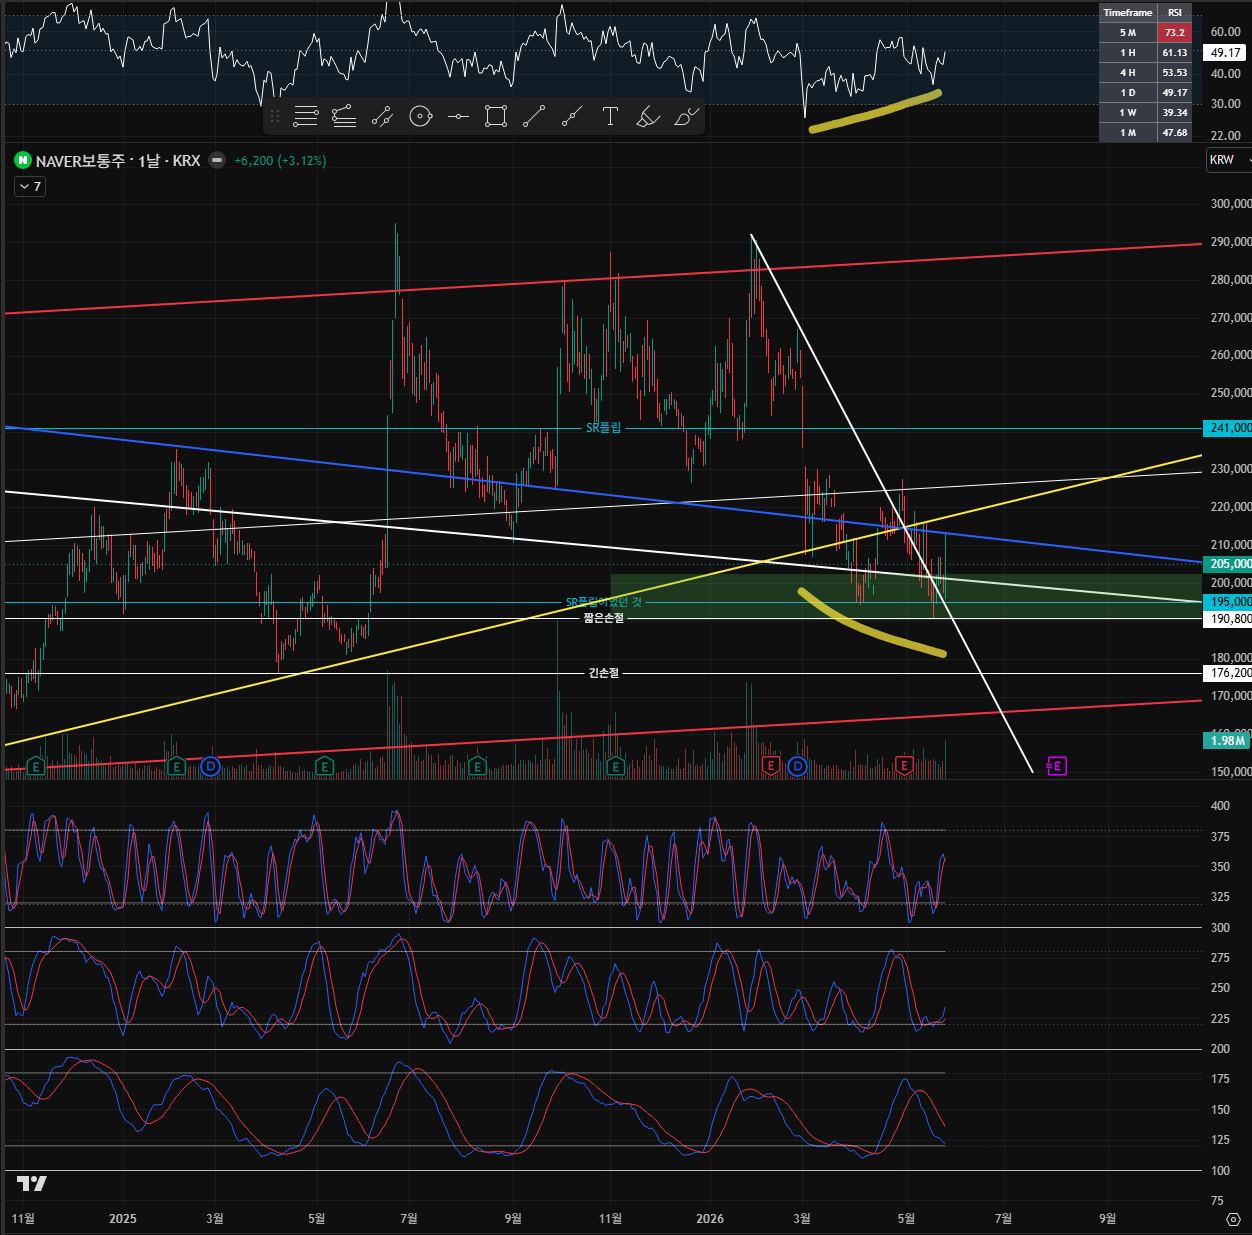
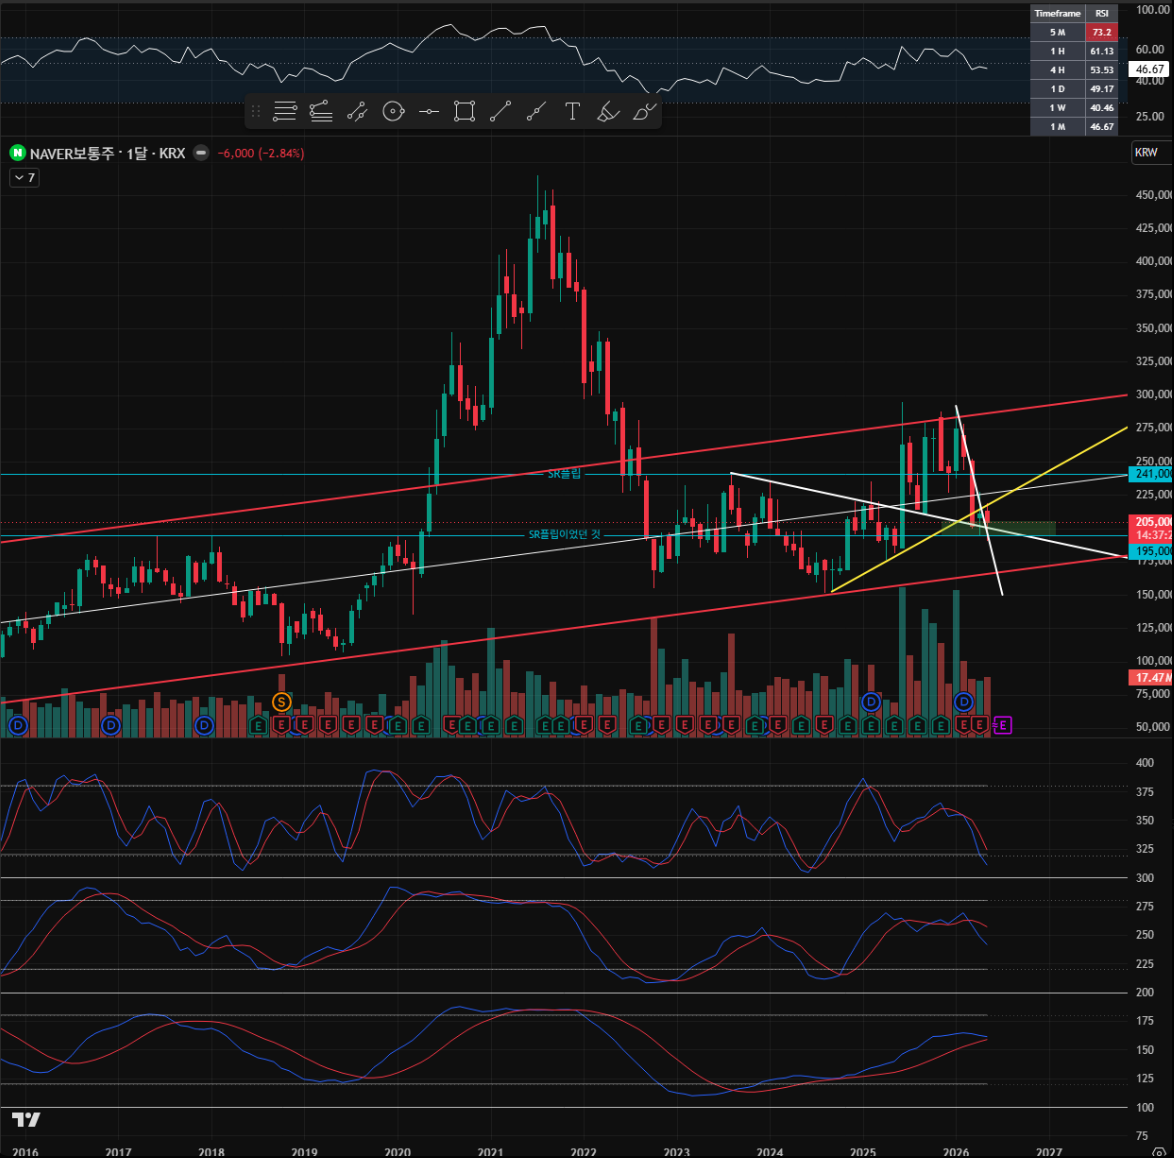
Add NAVER chart images to report

Changed region(s): [[0.0, 0.0, 1.0, 1.0], [0.0, 0.0, 0.8279, 0.1865], [0.0, 0.2487, 0.0307, 0.2798]]

diff --git a/gallery.html b/gallery.html
@@ -68,13 +68,63 @@
   <p class="summary">SQLite에 등록된 차트 이미지 기준으로 생성한 갤러리입니다.</p>
   <main class="grid">
     <article class="card">
+      <img src="assets/2026-05-28/naver_daily_ma_01.png" alt="naver daily chart">
+      <div class="meta">
+        <strong>naver</strong>
+        <span>daily</span>
+        <span>2026-05-29 01:05:30</span>
+        <span>캡처 저장</span>
+        <span>245.2 KB</span>
+      </div>
+    </article>
+    <article class="card">
+      <img src="assets/2026-05-28/naver_daily_divergence_01.png" alt="naver daily chart">
+      <div class="meta">
+        <strong>naver</strong>
+        <span>daily</span>
+        <span>2026-05-29 01:05:25</span>
+        <span>기존 이미지</span>
+        <span>349.8 KB</span>
+      </div>
+    </article>
+    <article class="card">
+      <img src="assets/2026-05-28/naver_weekly_fibonacci_01.png" alt="naver weekly chart">
+      <div class="meta">
+        <strong>naver</strong>
+        <span>weekly</span>
+        <span>2026-05-29 01:04:56</span>
+        <span>기존 이미지</span>
+        <span>319.0 KB</span>
+      </div>
+    </article>
+    <article class="card">
+      <img src="assets/2026-05-28/naver_weekly_neckline_01.png" alt="naver weekly chart">
+      <div class="meta">
+        <strong>naver</strong>
+        <span>weekly</span>
+        <span>2026-05-29 01:04:43</span>
+        <span>기존 이미지</span>
+        <span>333.7 KB</span>
+      </div>
+    </article>
+    <article class="card">
+      <img src="assets/2026-05-28/naver_weekly_sr_01.png" alt="naver weekly chart">
+      <div class="meta">
+        <strong>naver</strong>
+        <span>weekly</span>
+        <span>2026-05-29 01:04:28</span>
+        <span>기존 이미지</span>
+        <span>318.5 KB</span>
+      </div>
+    </article>
+    <article class="card">
       <img src="assets/2026-05-28/naver_monthly_01.png" alt="naver monthly chart">
       <div class="meta">
         <strong>naver</strong>
         <span>monthly</span>
-        <span>2026-05-29 01:00:53</span>
+        <span>2026-05-29 01:04:09</span>
         <span>캡처 저장</span>
-        <span>271.8 KB</span>
+        <span>268.7 KB</span>
       </div>
     </article>
     <article class="card">

diff --git a/2026-05-28/naver-review.html b/2026-05-28/naver-review.html
@@ -139,17 +139,8 @@
 <h2>Codex 최종 의견</h2>
 <p>네이버는 현재 &quot;매수 확정&quot;보다 &quot;반등 검증&quot;에 가까운 차트다. 달봉은 SR플립 실패와 단기 상승추세선 이탈 때문에 약하지만, 주봉과 일봉에서는 반등 후보 근거가 꽤 모여 있다. 핵심 가격대는 195,000~205,000원이다. 이 구간을 지키고 205,000원 위로 안착하면 사용자 관점은 힘을 얻는다. 반대로 195,000원과 짧은 손절선인 190,800원을 이탈하면, 지금 겹쳐 있는 피보나치/관통추세선/수평지지 근거가 동시에 약해진다.</p>
 <p>포지션 정보가 제공되지 않았으므로 액션은 선택하지 않는다. 현재 판단은 조건부 반등 후보이며, 확인 전에는 공격적 판단보다 195,000원 방어와 205,000원 위 안착을 먼저 봐야 한다.</p>
-<h2>차트 이미지</h2>
-<p><a class="image-link" href="../assets/2026-05-28/naver_monthly_01.png"><img src="../assets/2026-05-28/naver_monthly_01.png" alt="네이버 월봉 차트"></a></p>
-<p>주봉과 일봉 차트는 채팅 첨부로 분석에는 반영했지만, 아직 저장소에는 HTML에 연결할 이미지 파일이 없다. 차트까지 보이게 하려면 아래 이미지를 다시 캡처하거나 파일로 제공해 <code>records/assets/2026-05-28/</code> 아래에 저장한 뒤 HTML을 갱신해야 한다.</p>
-<ul>
-<li>주봉 SR플립 / 하단 수평지지 / 관통추세선 차트</li>
-<li>주봉 역헤드앤숄더 넥라인 리테스트 관점 차트</li>
-<li>주봉 피보나치 중첩 구간 차트</li>
-<li>일봉 RSI / 스토캐스틱 / 단기 하락추세선 차트</li>
-<li>일봉 5이평 확대 차트</li>
-</ul>
 <h2>월봉</h2>
+<p><a class="image-link" href="../assets/2026-05-28/naver_monthly_01.png"><img src="../assets/2026-05-28/naver_monthly_01.png" alt="네이버 월봉 차트"></a></p>
 <h3>내 의견</h3>
 <p>달봉 스토는 솔직히 볼 게 별로 없다. 달봉 소스토가 바닥권이라고 해서 못 사는 것은 아니다. 달봉 소/중/대스토가 모두 바닥권인 것은 필수요건이 아니고, 그 조건을 모두 충족하는 종목만 사려고 하면 살 수 있는 종목이 거의 없다. 달봉 소스토만 바닥이어도 사실 좋은 타점이 될 확률은 꽤 있다.</p>
 <p>다만 현재 네이버 달봉은 SR플립을 한 번 넘어섰다가 지지받지 못하고 내려왔다. 거기에 노란색 단기 상승추세선도 깨진 상황이라 달봉만 보면 썩 좋은 상황은 아니다.</p>
@@ -159,9 +150,14 @@
 <h3>확인 / 무효화</h3>
 <p>확인 조건은 195,000원 부근 하단 지지 유지, 220,000원대 회복, 241,000원 SR플립 재탈환과 월봉 안착이다. 무효화 조건은 195,000원 이탈, 이탈 후 195,000원이 저항으로 바뀌는 흐름, 장기 채널 하단으로 재하락하는 흐름이다.</p>
 <h2>주봉</h2>
-<h3>내 의견</h3>
+<h3>1. SR플립 하단 지지와 관통추세선</h3>
+<p><a class="image-link" href="../assets/2026-05-28/naver_weekly_sr_01.png"><img src="../assets/2026-05-28/naver_weekly_sr_01.png" alt="네이버 주봉 SR/관통추세선 차트"></a></p>
 <p>주봉은 이평선 의미가 약해 보여서 껐다. 우선 과거 SR플립이었던 아래 수평선이 은근히 지지저항 역할을 하고 있다. 노란색 단기 상승추세선이 깨진 것은 아쉽지만, 하얀색 하락추세선을 어떻게든 지지로 쓰려는 모습이 보인다.</p>
+<h3>2. 역헤드앤숄더 넥라인 리테스트</h3>
+<p><a class="image-link" href="../assets/2026-05-28/naver_weekly_neckline_01.png"><img src="../assets/2026-05-28/naver_weekly_neckline_01.png" alt="네이버 주봉 역헤드앤숄더 넥라인 리테스트 차트"></a></p>
 <p>노란선보다 흰색선이 더 의미 있다고 보는 이유는 역헤드앤숄더 패턴 상승 이후 넥라인 리테스트가 일어난 관통추세선이기 때문이다. 다만 파란색 관통추세선도 찾을 수 있고, 지금은 SR플립이었던 하단 수평지지와 두 개의 대각선 사이에 캔들이 끼어 있는 형국이다.</p>
+<h3>3. 피보나치 중첩 구간</h3>
+<p><a class="image-link" href="../assets/2026-05-28/naver_weekly_fibonacci_01.png"><img src="../assets/2026-05-28/naver_weekly_fibonacci_01.png" alt="네이버 주봉 피보나치 중첩 차트"></a></p>
 <p>여기에 피보나치 근거도 있다. 나는 피보나치의 0.786~0.886 / 1.13~1.414 구간을 중요하게 보는데, 이 두 구간이 겹치는 영역이 초록색 박스다. 이 부분이 마침 하단 수평지지와 관통추세선 두 개가 끼어 있는 곳이다. 주봉 스토는 형태가 괜찮고, 소스토가 여기서 돌려나가면 된다. RSI는 큰 의미가 없다.</p>
 <h3>Codex 의견</h3>
 <p>주봉 관점은 달봉보다 훨씬 설득력이 있다. 195,000원 부근 하단 수평지지, 흰색 관통추세선, 파란색 관통추세선, 피보나치 중첩 구간이 같은 가격대에 모여 있다면 단순한 한 줄 지지보다 의미가 크다. 특히 흰색 관통추세선을 역헤드앤숄더 상승 이후 넥라인 리테스트로 해석하는 것은 조건부로 타당하다.</p>
@@ -170,11 +166,14 @@
 <p>확인 조건은 195,000원 부근 주봉 종가 방어, 205,000~210,000원 회복, 주봉 소스토 상방 전환, 이후 220,000원대 회복이다. 강한 확인은 241,000원 재돌파와 안착이다.</p>
 <p>무효화 조건은 195,000원 주봉 종가 이탈, 이탈 후 195,000원 저항 전환, 주봉 소스토 반등 실패, 180,000원대 하단 지지 테스트로 밀리는 흐름이다.</p>
 <h2>일봉</h2>
-<h3>내 의견</h3>
+<h3>1. RSI 상승 다이버전스, 하락추세선, 스토캐스틱</h3>
+<p><a class="image-link" href="../assets/2026-05-28/naver_daily_divergence_01.png"><img src="../assets/2026-05-28/naver_daily_divergence_01.png" alt="네이버 일봉 다이버전스/스토캐스틱 차트"></a></p>
 <p>이 차트는 지금 더 빠지면 이상해지는 차트다. 떨어질 경우 쭉쭉 미끄러질 수도 있는데 이유는 네 가지다.</p>
 <p>첫 번째는 RSI다. 일봉상 상승 다이버전스가 3번에 걸쳐 걸린 상황이다. 상승장이니 일봉 상승 다이버전스도 귀한데, 일봉 상승 다이버전스가 3중으로 걸렸다. 3중으로 걸렸다고 더 강한 것은 아니지만, 하락 모멘텀이 둔화되는 신호로 볼 수 있다.</p>
 <p>두 번째는 일봉상 단기 하락추세선을 어떻게든 빗겨내고 있다는 점이다.</p>
 <p>세 번째는 스토캐스틱이다. 소스토, 중스토, 대스토를 보면 중스토와 대스토는 쌍바닥을 만드는 과정이고, 소스토는 이미 쌍바닥을 만들며 올라가고 있다. 그런데 여기서 하락으로 꺾이면 중스토와 대스토도 위로 고개를 돌리기 어렵다. 소스토가 위로 쫙 뻗어줘야 중스토와 대스토도 위로 고개를 돌리면서 상승하기 용이해 보인다.</p>
+<h3>2. 5이평 말림과 재안착</h3>
+<p><a class="image-link" href="../assets/2026-05-28/naver_daily_ma_01.png"><img src="../assets/2026-05-28/naver_daily_ma_01.png" alt="네이버 일봉 5이평 확대 차트"></a></p>
 <p>네 번째는 이평선이다. 엔켐 주봉에서 설명한 5이평이 둥글게 말리는 형태가 네이버 일봉에서 보인다. 지금 5이평을 둥글게 말면서 올라탄 상태인데, 이걸 굳이 또 이탈한다면 오를 놈의 차트라고 보기 어렵다.</p>
 <h3>Codex 의견</h3>
 <p>일봉은 네이버 분석에서 가장 직접적인 실행 시간봉이다. RSI 상승 다이버전스, 단기 하락추세선 돌파 시도, 소스토 선행 반등, 5이평 말림이 한꺼번에 보인다면 반등 근거는 충분히 있다. 다만 이 근거들은 모두 &quot;여기서 더 안 빠져야 한다&quot;는 조건이 붙는다.</p>

diff --git a/index.html b/index.html
@@ -334,17 +334,8 @@
 <h2>Codex 최종 의견</h2>
 <p>네이버는 현재 &quot;매수 확정&quot;보다 &quot;반등 검증&quot;에 가까운 차트다. 달봉은 SR플립 실패와 단기 상승추세선 이탈 때문에 약하지만, 주봉과 일봉에서는 반등 후보 근거가 꽤 모여 있다. 핵심 가격대는 195,000~205,000원이다. 이 구간을 지키고 205,000원 위로 안착하면 사용자 관점은 힘을 얻는다. 반대로 195,000원과 짧은 손절선인 190,800원을 이탈하면, 지금 겹쳐 있는 피보나치/관통추세선/수평지지 근거가 동시에 약해진다.</p>
 <p>포지션 정보가 제공되지 않았으므로 액션은 선택하지 않는다. 현재 판단은 조건부 반등 후보이며, 확인 전에는 공격적 판단보다 195,000원 방어와 205,000원 위 안착을 먼저 봐야 한다.</p>
-<h2>차트 이미지</h2>
-<p><a class="image-link" href="assets/2026-05-28/naver_monthly_01.png"><img src="assets/2026-05-28/naver_monthly_01.png" alt="네이버 월봉 차트"></a></p>
-<p>주봉과 일봉 차트는 채팅 첨부로 분석에는 반영했지만, 아직 저장소에는 HTML에 연결할 이미지 파일이 없다. 차트까지 보이게 하려면 아래 이미지를 다시 캡처하거나 파일로 제공해 <code>records/assets/2026-05-28/</code> 아래에 저장한 뒤 HTML을 갱신해야 한다.</p>
-<ul>
-<li>주봉 SR플립 / 하단 수평지지 / 관통추세선 차트</li>
-<li>주봉 역헤드앤숄더 넥라인 리테스트 관점 차트</li>
-<li>주봉 피보나치 중첩 구간 차트</li>
-<li>일봉 RSI / 스토캐스틱 / 단기 하락추세선 차트</li>
-<li>일봉 5이평 확대 차트</li>
-</ul>
 <h2>월봉</h2>
+<p><a class="image-link" href="assets/2026-05-28/naver_monthly_01.png"><img src="assets/2026-05-28/naver_monthly_01.png" alt="네이버 월봉 차트"></a></p>
 <h3>내 의견</h3>
 <p>달봉 스토는 솔직히 볼 게 별로 없다. 달봉 소스토가 바닥권이라고 해서 못 사는 것은 아니다. 달봉 소/중/대스토가 모두 바닥권인 것은 필수요건이 아니고, 그 조건을 모두 충족하는 종목만 사려고 하면 살 수 있는 종목이 거의 없다. 달봉 소스토만 바닥이어도 사실 좋은 타점이 될 확률은 꽤 있다.</p>
 <p>다만 현재 네이버 달봉은 SR플립을 한 번 넘어섰다가 지지받지 못하고 내려왔다. 거기에 노란색 단기 상승추세선도 깨진 상황이라 달봉만 보면 썩 좋은 상황은 아니다.</p>
@@ -354,9 +345,14 @@
 <h3>확인 / 무효화</h3>
 <p>확인 조건은 195,000원 부근 하단 지지 유지, 220,000원대 회복, 241,000원 SR플립 재탈환과 월봉 안착이다. 무효화 조건은 195,000원 이탈, 이탈 후 195,000원이 저항으로 바뀌는 흐름, 장기 채널 하단으로 재하락하는 흐름이다.</p>
 <h2>주봉</h2>
-<h3>내 의견</h3>
+<h3>1. SR플립 하단 지지와 관통추세선</h3>
+<p><a class="image-link" href="assets/2026-05-28/naver_weekly_sr_01.png"><img src="assets/2026-05-28/naver_weekly_sr_01.png" alt="네이버 주봉 SR/관통추세선 차트"></a></p>
 <p>주봉은 이평선 의미가 약해 보여서 껐다. 우선 과거 SR플립이었던 아래 수평선이 은근히 지지저항 역할을 하고 있다. 노란색 단기 상승추세선이 깨진 것은 아쉽지만, 하얀색 하락추세선을 어떻게든 지지로 쓰려는 모습이 보인다.</p>
+<h3>2. 역헤드앤숄더 넥라인 리테스트</h3>
+<p><a class="image-link" href="assets/2026-05-28/naver_weekly_neckline_01.png"><img src="assets/2026-05-28/naver_weekly_neckline_01.png" alt="네이버 주봉 역헤드앤숄더 넥라인 리테스트 차트"></a></p>
 <p>노란선보다 흰색선이 더 의미 있다고 보는 이유는 역헤드앤숄더 패턴 상승 이후 넥라인 리테스트가 일어난 관통추세선이기 때문이다. 다만 파란색 관통추세선도 찾을 수 있고, 지금은 SR플립이었던 하단 수평지지와 두 개의 대각선 사이에 캔들이 끼어 있는 형국이다.</p>
+<h3>3. 피보나치 중첩 구간</h3>
+<p><a class="image-link" href="assets/2026-05-28/naver_weekly_fibonacci_01.png"><img src="assets/2026-05-28/naver_weekly_fibonacci_01.png" alt="네이버 주봉 피보나치 중첩 차트"></a></p>
 <p>여기에 피보나치 근거도 있다. 나는 피보나치의 0.786~0.886 / 1.13~1.414 구간을 중요하게 보는데, 이 두 구간이 겹치는 영역이 초록색 박스다. 이 부분이 마침 하단 수평지지와 관통추세선 두 개가 끼어 있는 곳이다. 주봉 스토는 형태가 괜찮고, 소스토가 여기서 돌려나가면 된다. RSI는 큰 의미가 없다.</p>
 <h3>Codex 의견</h3>
 <p>주봉 관점은 달봉보다 훨씬 설득력이 있다. 195,000원 부근 하단 수평지지, 흰색 관통추세선, 파란색 관통추세선, 피보나치 중첩 구간이 같은 가격대에 모여 있다면 단순한 한 줄 지지보다 의미가 크다. 특히 흰색 관통추세선을 역헤드앤숄더 상승 이후 넥라인 리테스트로 해석하는 것은 조건부로 타당하다.</p>
@@ -365,11 +361,14 @@
 <p>확인 조건은 195,000원 부근 주봉 종가 방어, 205,000~210,000원 회복, 주봉 소스토 상방 전환, 이후 220,000원대 회복이다. 강한 확인은 241,000원 재돌파와 안착이다.</p>
 <p>무효화 조건은 195,000원 주봉 종가 이탈, 이탈 후 195,000원 저항 전환, 주봉 소스토 반등 실패, 180,000원대 하단 지지 테스트로 밀리는 흐름이다.</p>
 <h2>일봉</h2>
-<h3>내 의견</h3>
+<h3>1. RSI 상승 다이버전스, 하락추세선, 스토캐스틱</h3>
+<p><a class="image-link" href="assets/2026-05-28/naver_daily_divergence_01.png"><img src="assets/2026-05-28/naver_daily_divergence_01.png" alt="네이버 일봉 다이버전스/스토캐스틱 차트"></a></p>
 <p>이 차트는 지금 더 빠지면 이상해지는 차트다. 떨어질 경우 쭉쭉 미끄러질 수도 있는데 이유는 네 가지다.</p>
 <p>첫 번째는 RSI다. 일봉상 상승 다이버전스가 3번에 걸쳐 걸린 상황이다. 상승장이니 일봉 상승 다이버전스도 귀한데, 일봉 상승 다이버전스가 3중으로 걸렸다. 3중으로 걸렸다고 더 강한 것은 아니지만, 하락 모멘텀이 둔화되는 신호로 볼 수 있다.</p>
 <p>두 번째는 일봉상 단기 하락추세선을 어떻게든 빗겨내고 있다는 점이다.</p>
 <p>세 번째는 스토캐스틱이다. 소스토, 중스토, 대스토를 보면 중스토와 대스토는 쌍바닥을 만드는 과정이고, 소스토는 이미 쌍바닥을 만들며 올라가고 있다. 그런데 여기서 하락으로 꺾이면 중스토와 대스토도 위로 고개를 돌리기 어렵다. 소스토가 위로 쫙 뻗어줘야 중스토와 대스토도 위로 고개를 돌리면서 상승하기 용이해 보인다.</p>
+<h3>2. 5이평 말림과 재안착</h3>
+<p><a class="image-link" href="assets/2026-05-28/naver_daily_ma_01.png"><img src="assets/2026-05-28/naver_daily_ma_01.png" alt="네이버 일봉 5이평 확대 차트"></a></p>
 <p>네 번째는 이평선이다. 엔켐 주봉에서 설명한 5이평이 둥글게 말리는 형태가 네이버 일봉에서 보인다. 지금 5이평을 둥글게 말면서 올라탄 상태인데, 이걸 굳이 또 이탈한다면 오를 놈의 차트라고 보기 어렵다.</p>
 <h3>Codex 의견</h3>
 <p>일봉은 네이버 분석에서 가장 직접적인 실행 시간봉이다. RSI 상승 다이버전스, 단기 하락추세선 돌파 시도, 소스토 선행 반등, 5이평 말림이 한꺼번에 보인다면 반등 근거는 충분히 있다. 다만 이 근거들은 모두 &quot;여기서 더 안 빠져야 한다&quot;는 조건이 붙는다.</p>